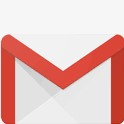
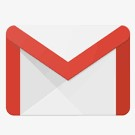
img rounded update

diff --git a/resume/index.html b/resume/index.html
@@ -10,7 +10,7 @@
 		</div>
 		<div class="content">
 			<div class="profile-pic">
-				<img src="images/profilepic.jpg" alt="profie pic" style="float:left; height:150px; width:150px;">
+				<img src="images/profilepic.jpg" alt="profie pic" style="float:left; height:150px; width:150px;border-radius:10px;">
 				<h5 style="padding-top:152px;font-size:16px;">Aman Kumar</h5>
 				<h6 style="font-size:15px;">Student at IEC College of Engineering and Technology</h6>
 				<h5 style="font-size:14px;"><pre>

diff --git a/resume/index.css b/resume/index.css
@@ -36,6 +36,7 @@ img.contact-images{
 	margin-left:20px;
 	margin-right:18px;
 	margin-bottom:20px;
+	border-radius:6px;
 }
 .table{
 	width:55%;
